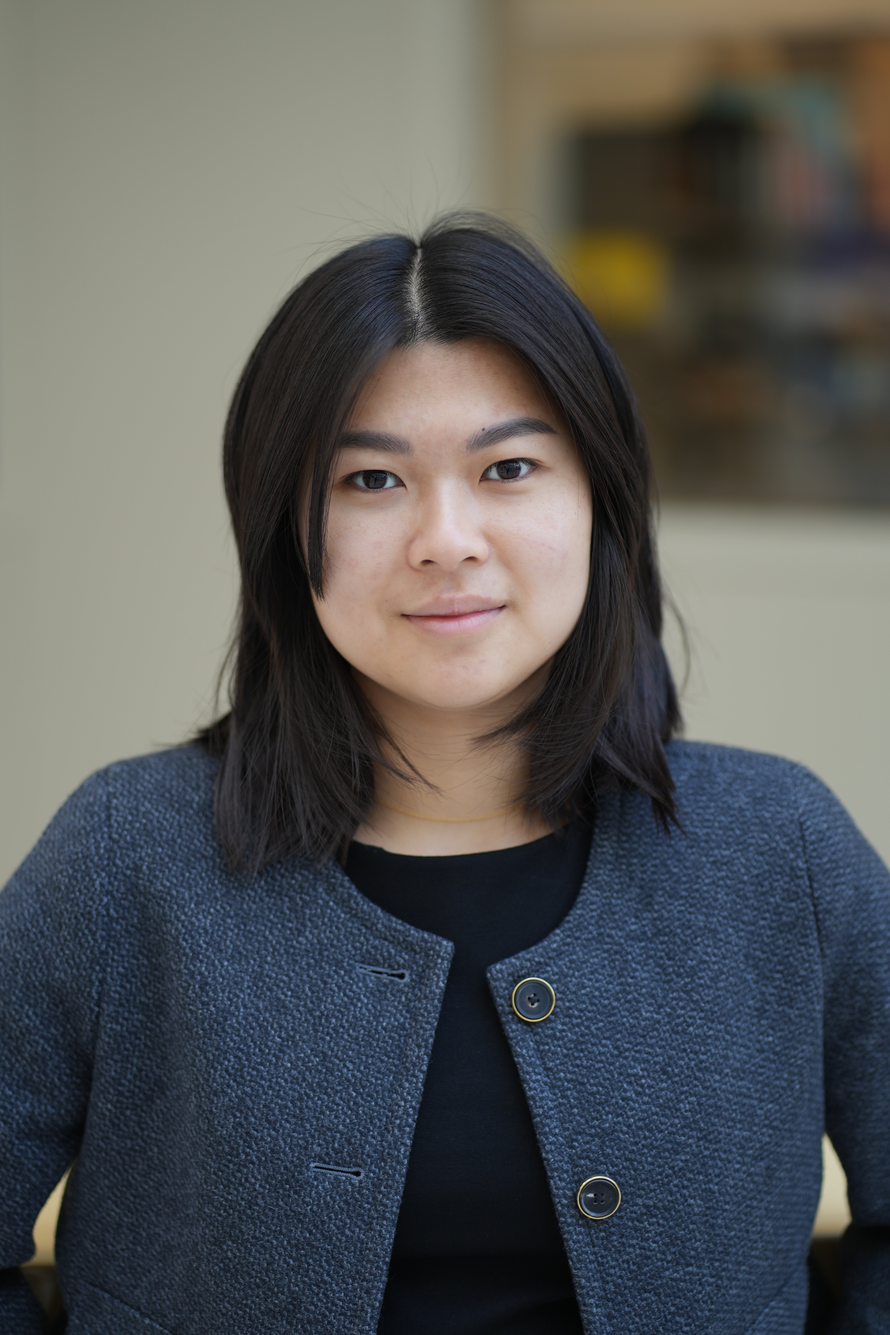
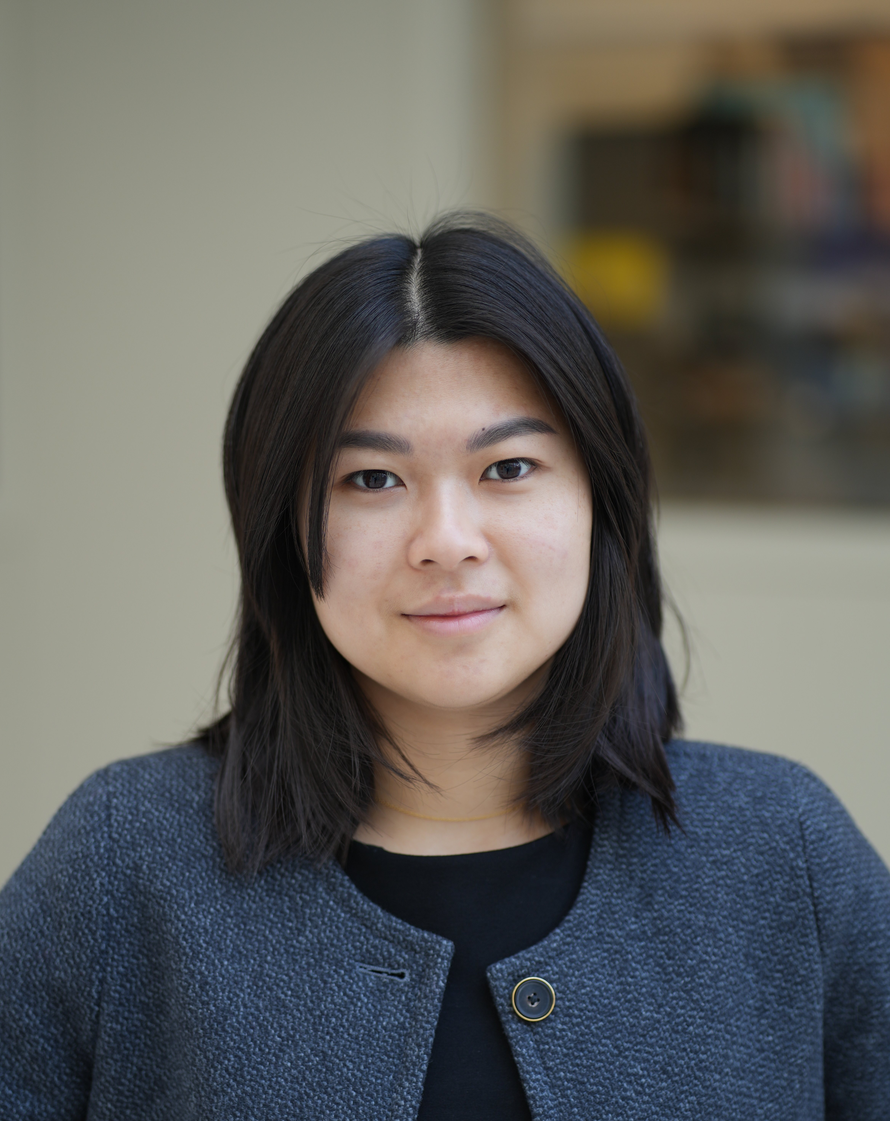
edit picture and pdf v2

diff --git a/frontend/app/routes/cv.tsx b/frontend/app/routes/cv.tsx
@@ -1,14 +1,7 @@
 import type { Route } from "./+types/cv";
-import { Link } from "react-router";
-import {
-  PageWrapper,
-  SectionHeader,
-  StatCard,
-  PrimaryButton,
-  DownloadIcon,
-} from "../components/ui";
+import { SectionHeader, DownloadIcon } from "../components/ui";
 import { cn } from "../styles";
-import { cv, education } from "../data";
+import { cv } from "../data";
 import { publicUrl } from "../utils";
 
 export function meta({}: Route.MetaArgs) {
@@ -16,76 +9,46 @@ export function meta({}: Route.MetaArgs) {
 }
 
 export default function CV() {
-  const { degree, skills } = education;
+  const resumeUrl = publicUrl(cv.downloadUrl);
 
   return (
-    <PageWrapper>
+    <div className="p-6 md:p-8">
       <SectionHeader label="CV" title="Curriculum Vitae" />
 
-      {/* Download */}
-      <div className="bg-white border border-brand-lavender/60 rounded-xl p-6 shadow-sm mb-8">
-        <p className="text-xs text-slate-600 mb-4 max-w-md">{cv.bio}</p>
-        <PrimaryButton href={publicUrl(cv.downloadUrl)} download>
-          <DownloadIcon size={14} />
-          Download CV (PDF)
-        </PrimaryButton>
-      </div>
-
-      {/* Stats */}
-      <div className="grid grid-cols-2 sm:grid-cols-4 gap-3 mb-10">
-        {cv.stats.map(({ value, label }) => (
-          <StatCard key={label} value={value} label={label} />
-        ))}
-      </div>
-
-      {/* Education summary */}
-      <p className={`${cn.sectionLabel} mb-3`}>Education</p>
-      <div className="bg-white border border-brand-lavender/60 rounded-xl p-5 shadow-sm mb-8">
-        <div className="flex flex-wrap items-start justify-between gap-2">
-          <div>
-            <p className="font-bold text-slate-900 text-sm">{degree.school}</p>
-            <p className="text-brand-purple font-semibold text-xs mt-0.5">
-              {degree.degree} — {degree.concentration}
-            </p>
-            <p className="text-xs text-slate-500 mt-0.5">Minor in {degree.minor}</p>
-          </div>
-          <p className="text-xs text-slate-500 shrink-0">{degree.period}</p>
+      {/* Inline PDF viewer */}
+      <div className="bg-white border border-brand-lavender/60 rounded-xl shadow-sm overflow-hidden">
+        <iframe
+          src={resumeUrl}
+          title="Resume — Soleil Pham"
+          className="w-full"
+          style={{ height: "82vh", minHeight: 600 }}
+        />
+        {/* Fallback for browsers that block inline PDFs */}
+        <div className={`${cn.divider} px-5 py-3 flex items-center justify-between`}>
+          <p className="text-xs text-slate-400">
+            PDF not rendering?{" "}
+            <a
+              href={resumeUrl}
+              download
+              className="text-brand-purple font-semibold hover:text-brand-coral transition-colors"
+            >
+              Download it directly
+            </a>
+          </p>
+          <a
+            href={resumeUrl}
+            target="_blank"
+            rel="noreferrer"
+            className="text-xs text-brand-purple font-semibold hover:text-brand-coral transition-colors"
+          >
+            Open in new tab ↗
+          </a>
         </div>
       </div>
 
-      {/* Skills summary */}
-      <p className={`${cn.sectionLabel} mb-3`}>Technical Skills</p>
-      <div className="bg-white border border-brand-lavender/60 rounded-xl p-5 shadow-sm mb-8">
-        {Object.entries(skills).map(([cat, items], i, arr) => (
-          <div key={cat}>
-            <div className="flex flex-wrap gap-2 items-start">
-              <span className="text-xs font-bold text-slate-500 uppercase tracking-widest w-36 shrink-0 pt-0.5">
-                {cat}
-              </span>
-              <span className="text-xs text-slate-600 flex-1">{items.join(" · ")}</span>
-            </div>
-            {i < arr.length - 1 && <div className="border-t border-brand-lavender/30 my-3" />}
-          </div>
-        ))}
-      </div>
-
-      {/* Quick links */}
-      <p className={`${cn.sectionLabel} mb-3`}>Quick Links</p>
-      <div className="flex flex-wrap gap-3">
-        {cv.quickLinks.map(({ label, to }) => (
-          <Link
-            key={to}
-            to={to}
-            className={`text-xs px-4 py-2 bg-white border border-brand-lavender/60 text-brand-purple font-semibold rounded-xl transition-colors ${cn.accentLink}`}
-          >
-            {label}
-          </Link>
-        ))}
-      </div>
-
-      <p className="mt-14 text-xs text-slate-400 text-center">
+      <p className="mt-10 text-xs text-slate-400 text-center">
         © {new Date().getFullYear()} Chan Nhu (Soleil) Nguyen Pham
       </p>
-    </PageWrapper>
+    </div>
   );
 }

diff --git a/frontend/app/routes/_layout.tsx b/frontend/app/routes/_layout.tsx
@@ -9,7 +9,6 @@ import {
   CVIcon,
   LeetCodeIcon,
   LocationIcon,
-  DownloadIcon,
 } from "../components/ui";
 
 const NAV_LINKS = [
@@ -92,9 +91,9 @@ function ProfileCard() {
         <img
           src={publicUrl(profile.photo)}
           alt={profile.displayName}
-          width={96}
-          height={96}
-          className="rounded-full border-4 border-white shadow-md object-cover"
+          width={128}
+          height={128}
+          className="w-28 h-28 rounded-full border-4 border-white shadow-md object-cover"
         />
         <h2 className="mt-3 font-bold text-slate-900 text-base leading-tight">
           {profile.displayName}
@@ -151,17 +150,6 @@ function ProfileCard() {
         ))}
       </div>
 
-      {/* Resume download — always visible at the bottom */}
-      <div className="px-3 pb-3 pt-2 border-t border-brand-lavender/30 mt-1">
-        <a
-          href={publicUrl("resume.pdf")}
-          download
-          className="flex items-center justify-center gap-2 w-full py-2 rounded-lg bg-brand-purple text-white text-xs font-semibold hover:opacity-90 transition-opacity"
-        >
-          <DownloadIcon size={13} />
-          Download Resume
-        </a>
-      </div>
     </div>
   );
 }
